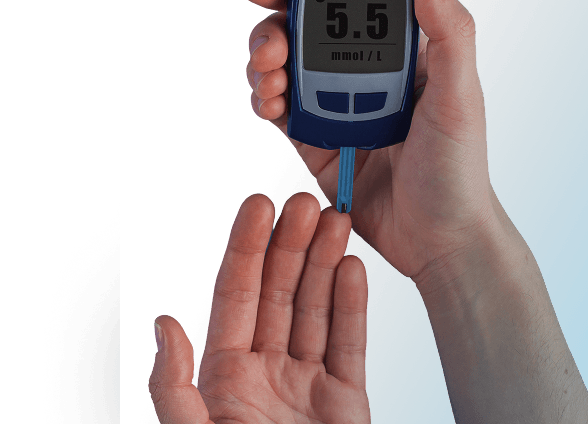
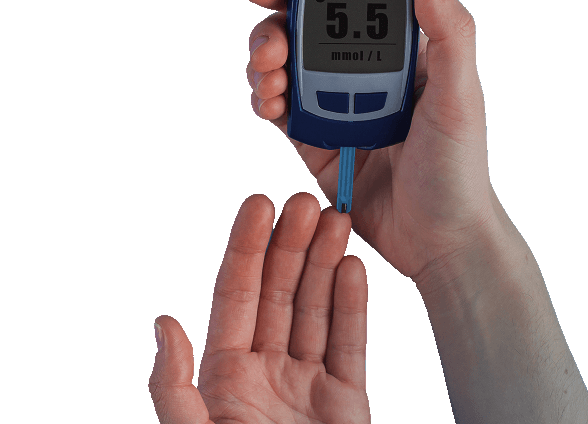
App download stacks, health packages images, title animation timing
- App download: valueUnit glass redesign, gradient border, storeBadgeStack layout, trust/store stack alignment around phone
- Health packages: package card background, diabetes/heart image asset fixes
- SplitText: slower title wipe/shimmer entrance animation
- FloatingQuickActions: fix dark/light detection gap between specialities and patient stories

Changed region(s): [[0.7959, 0.0, 1.0, 0.9198], [0.5816, 0.5519, 0.7959, 1.0]]

diff --git a/src/components/sections/app-download/AppDownloadBanner.tsx b/src/components/sections/app-download/AppDownloadBanner.tsx
@@ -7,6 +7,7 @@ import {
   useScroll,
   useTransform,
   useMotionValueEvent,
+  type Variants,
 } from "framer-motion";
 import Image from "next/image";
 import AppDownloadNeatBackground from "./AppDownloadNeatBackground";
@@ -444,21 +445,59 @@ export default function AppDownloadBanner() {
             <div className={`${styles.trustStackPosition} ${styles.desktopOnly}`} style={{ marginLeft: "100px" }}>
               <motion.div
                 className={styles.trustStack}
-                initial={{ opacity: 0, filter: "blur(4px)", y: 30 }}
-                animate={phase === "matured" ? { opacity: 1, filter: "blur(0px)", y: 0 } : { opacity: 0, filter: "blur(4px)", y: 30 }}
-                transition={{ duration: 0.6, delay: 0.1 }}
+                initial="hidden"
+                animate={phase === "matured" ? "visible" : "hidden"}
+                variants={{
+                  hidden: {},
+                  visible: { transition: { staggerChildren: 0.15, delayChildren: 0.1 } },
+                }}
               >
-                {TRUST_STACK.map(({ Icon, label, subtext }) => (
-                  <div key={label} className={styles.valueUnit}>
-                    <span className={styles.valueIconTile}>
-                      <Icon />
-                    </span>
-                    <span className={styles.valueText}>
-                      <span className={styles.valueLabel}>{label}</span>
-                      <span className={styles.valueSubtext}>{subtext}</span>
-                    </span>
-                  </div>
-                ))}
+                {(() => {
+                  const [primary, ...rest] = TRUST_STACK;
+                  const unitVariants: Variants = {
+                    hidden: { opacity: 0, filter: "blur(10px)", y: 24 },
+                    visible: {
+                      opacity: 1,
+                      filter: "blur(0px)",
+                      y: 0,
+                      transition: { duration: 0.7, ease: [0.16, 1, 0.3, 1] },
+                    },
+                  };
+                  return (
+                    <>
+                      <motion.div
+                        key={primary.label}
+                        className={`${styles.valueUnit} ${styles.valueUnitFull}`}
+                        variants={unitVariants}
+                      >
+                        <span className={styles.valueIconTile}>
+                          <primary.Icon />
+                        </span>
+                        <span className={styles.valueText}>
+                          <span className={styles.valueLabel}>{primary.label}</span>
+                          <span className={styles.valueSubtext}>{primary.subtext}</span>
+                        </span>
+                      </motion.div>
+                      <div className={styles.trustStackBottomRow}>
+                        {rest.map(({ Icon, label, subtext }) => (
+                          <motion.div
+                            key={label}
+                            className={`${styles.valueUnit} ${styles.valueUnitCompact}`}
+                            variants={unitVariants}
+                          >
+                            <span className={styles.valueIconTile}>
+                              <Icon />
+                            </span>
+                            <span className={styles.valueText}>
+                              <span className={styles.valueLabel}>{label}</span>
+                              <span className={styles.valueSubtext}>{subtext}</span>
+                            </span>
+                          </motion.div>
+                        ))}
+                      </div>
+                    </>
+                  );
+                })()}
               </motion.div>
             </div>
 
@@ -559,20 +598,68 @@ export default function AppDownloadBanner() {
               <motion.div 
                 className={styles.storesCol}
                 style={{ pointerEvents: "auto", zIndex: 30 }}
-                initial={{ opacity: 0, filter: "blur(4px)", y: 30 }}
-                animate={phase === "matured" ? { opacity: 1, filter: "blur(0px)", y: 0 } : { opacity: 0, filter: "blur(4px)", y: 30 }}
-                transition={{ duration: 0.6, delay: 0.1 }}
+                initial="hidden"
+                animate={phase === "matured" ? "visible" : "hidden"}
+                variants={{
+                  hidden: {},
+                  visible: { transition: { staggerChildren: 0.15, delayChildren: 0.1 } },
+                }}
               >
-                <div className={`${styles.qrStack} ${styles.desktopOnly} ${styles.popoverGlass}`}>
+                <motion.div
+                  className={`${styles.qrStack} ${styles.desktopOnly} ${styles.popoverGlass}`}
+                  variants={{
+                    hidden: { opacity: 0, filter: "blur(10px)", y: 24 },
+                    visible: {
+                      opacity: 1,
+                      filter: "blur(0px)",
+                      y: 0,
+                      transition: { duration: 0.7, ease: [0.16, 1, 0.3, 1] },
+                    },
+                  }}
+                >
                   <Image src="/app-download-QR.png" alt="QR code to download the NH Care app" width={140} height={140} className={styles.qrImg} />
                   <span className={styles.qrLabel}>Scan to install</span>
-                </div>
-                <a href="#" className={styles.storeBadge} tabIndex={0}>
-                  <Image width={140} height={46} alt="Download on the App Store" src="/App store.svg" />
-                </a>
-                <a href="#" className={styles.storeBadge} tabIndex={0}>
-                  <Image width={140} height={46} alt="Get it on Google Play" src="/Google play.svg" />
-                </a>
+                </motion.div>
+                <motion.div
+                  className={styles.storeBadgeStack}
+                  variants={{
+                    hidden: {},
+                    visible: { transition: { staggerChildren: 0.15 } },
+                  }}
+                >
+                  <motion.a
+                    href="#"
+                    className={styles.storeBadge}
+                    tabIndex={0}
+                    variants={{
+                      hidden: { opacity: 0, filter: "blur(10px)", y: 24 },
+                      visible: {
+                        opacity: 1,
+                        filter: "blur(0px)",
+                        y: 0,
+                        transition: { duration: 0.7, ease: [0.16, 1, 0.3, 1] },
+                      },
+                    }}
+                  >
+                    <Image width={140} height={46} alt="Download on the App Store" src="/App store.svg" />
+                  </motion.a>
+                  <motion.a
+                    href="#"
+                    className={styles.storeBadge}
+                    tabIndex={0}
+                    variants={{
+                      hidden: { opacity: 0, filter: "blur(10px)", y: 24 },
+                      visible: {
+                        opacity: 1,
+                        filter: "blur(0px)",
+                        y: 0,
+                        transition: { duration: 0.7, ease: [0.16, 1, 0.3, 1] },
+                      },
+                    }}
+                  >
+                    <Image width={140} height={46} alt="Get it on Google Play" src="/Google play.svg" />
+                  </motion.a>
+                </motion.div>
               </motion.div>
             </div>
           </div>

diff --git a/src/components/sections/app-download/AppDownloadBanner.module.css b/src/components/sections/app-download/AppDownloadBanner.module.css
@@ -248,12 +248,12 @@
 
 .trustStackPosition {
   left: 0;
-  margin-left: 160px;
+  margin-left: 90px;
 }
 
 .storesColPosition {
   right: 0;
-  margin-right: 120px;
+  margin-right: 90px;
 }
 
 /* Left-side trust stack: mirrors the store column's own entrance timing/
@@ -267,6 +267,17 @@
 .trustStack {
   display: flex;
   flex-direction: column;
+  align-items: stretch;
+  gap: 16px;
+}
+
+/* Bottom row: Downloads + Rating sit side by side, each hugging its own
+   content width rather than stretching to match the top unit's full
+   width — mirrors the Figma reference where the two are visibly
+   narrower than "India's Most Trusted" above them. */
+.trustStackBottomRow {
+  display: flex;
+  flex-direction: row;
   align-items: stretch;
   gap: 16px;
 }
@@ -374,19 +385,31 @@
      so the two sides read as one family — kept low enough that the card
      still reads as neutral glass at a glance. */
   background:
-    linear-gradient(180deg, rgb(233 42 45 / 0%) 0%, rgb(252 80 83 / 23%) 100%),
-    rgb(255 255 255 / 40%);
+    linear-gradient(180deg, rgb(255 241 241 / 22%) 0%, rgb(255 138 140 / 27%) 100%),
+    rgb(255 255 255 / 55%);
   backdrop-filter: blur(28px) saturate(1.6);
   -webkit-backdrop-filter: blur(28px) saturate(1.6);
   border-radius: 10px;
   padding: 16px;
-  border: 1px solid rgba(252, 80, 83, 0.12);
+  border: 1px solid rgb(255 224 225 / 76%);
+  box-shadow: 0 8px 24px rgba(233, 42, 45, 0.08);
 }
 
 .storesCol {
   display: flex;
-  flex-direction: column;
+  flex-direction: row;
+  align-items: stretch;
   gap: 16px;
+}
+
+/* App Store + Google Play badges stacked vertically beside the QR block,
+   rather than below the whole storesCol — reads as one compact unit next
+   to "Scan to install" instead of a tall single-file column. */
+.storeBadgeStack {
+  display: flex;
+  flex-direction: column;
+  justify-content: center;
+  gap: 12px;
 }
 
 /* Label above, image below, wrapped in .popoverGlass (same card treatment
@@ -416,7 +439,7 @@
   display: inline-flex;
   align-items: center;
   justify-content: center;
-  width: 140px;
+  width: 120px;
   opacity: 0.8;
   transition: transform 0.2s ease, opacity 0.2s ease;
   overflow: hidden;
@@ -649,11 +672,16 @@
   gap: 10px;
   border-radius: 40px;
   border: 1px solid rgba(255, 255, 255, 0.35);
-  /* No shadow at all now, so the blur is the only thing separating it from
-     the white behind — kept heavy for that reason. */
-  background: rgba(255, 255, 255, 0.14);
+  /* Neutral glass fill, with a faint grey wash pooling at the bottom edge
+     (rather than a flat tint) so the pill reads as lit from above, plus a
+     soft shadow to lift it off the backdrop now that it's no longer
+     leaning on the old blue tint for separation. */
+  background:
+    linear-gradient(180deg, rgba(0, 0, 0, 0) 0%, rgba(0, 0, 0, 0.06) 100%),
+    rgba(255, 255, 255, 0.14);
   backdrop-filter: blur(32px) saturate(1.9);
   -webkit-backdrop-filter: blur(32px) saturate(1.9);
+  box-shadow: 0 8px 20px rgba(0, 0, 0, 0.10);
   white-space: nowrap;
 }
 
@@ -668,10 +696,10 @@
 }
 
 /* ─── Left value stack ─── */
-/* Each value sits on its own card, in the same glass family as the QR card
-   opposite so the two columns read as a pair. The red is pulled back from
-   the QR card's: these are three stacked cards against that one, so the
-   same tint would compound down the column. */
+/* Glass-only surface — no color fill or stroke of its own (per the Figma
+   "Glass" effect reference: refraction/frost off a transparent base).
+   Legibility comes entirely from the backdrop-filter blur+saturate
+   lifting the text off whatever busy artwork sits behind it. */
 .valueUnit {
   display: flex;
   align-items: center;
@@ -679,12 +707,30 @@
   padding: 12px 16px;
   box-sizing: border-box;
   border-radius: 10px;
-  background:
-    linear-gradient(180deg, rgb(233 42 45 / 0%) 0%, rgb(252 80 83 / 10%) 100%),
-    rgb(255 255 255 / 55%);
   backdrop-filter: blur(36px) saturate(1.7);
   -webkit-backdrop-filter: blur(36px) saturate(1.7);
-  border: 1px solid rgba(252, 80, 83, 0.08);
+  box-shadow: 0 8px 24px rgba(0, 0, 0, 0.06);
+  /* Slight white gradient border via the two-layer background-clip trick
+     (a real border-image would square off the rounded corners) — the
+     padding-box layer stays fully transparent so the glass blur behind
+     is all that fills the card; only the border-box layer carries the
+     gradient, and only shows through the 1px border ring. */
+  border: 1px solid transparent;
+  background:
+    linear-gradient(rgba(0, 0, 0, 0), rgba(0, 0, 0, 0)) padding-box,
+    linear-gradient(180deg, rgba(255, 255, 255, 0.65) 0%, rgba(255, 255, 255, 0.12) 100%) border-box;
+}
+
+/* Top "India's Most Trusted" unit spans the full width of the stack (the
+   two units below it define that width by hugging their own content). */
+.valueUnitFull {
+  width: 100%;
+}
+
+/* Downloads / Rating units hug their content instead of stretching. */
+.valueUnitCompact {
+  width: auto;
+  flex: 0 0 auto;
 }
 
 .valueIconTile {
@@ -709,17 +755,17 @@
 .valueLabel {
   color: var(--darker-212121, #212121);
   font-family: Inter, var(--font-sans), sans-serif;
-  font-size: 16px;
+  font-size: 18px;
   font-style: normal;
   font-weight: 600;
   line-height: normal;
 }
 
 .valueSubtext {
-  color: var(--darker-717171, #717171);
+  color: #414141;
   font-family: Inter, var(--font-sans), sans-serif;
-  font-size: 16px;
+  font-size: 14px;
   font-style: normal;
-  font-weight: 500;
+  font-weight: 400;
   line-height: normal;
 }

diff --git a/src/components/layout/FloatingQuickActions.tsx b/src/components/layout/FloatingQuickActions.tsx
@@ -155,11 +155,16 @@ export default function FloatingQuickActions() {
 
       // Specialities: the grid section is dark from its first pixel, but
       // most of that is empty backdrop. The labels only need to go white
-      // once a speciality image is genuinely behind them.
+      // once a speciality image is genuinely behind them — or once the
+      // handoff strip at the bottom (CTA + the reversible plate fading to
+      // Patient Stories' solid backdrop) is behind them, since that empty
+      // gap turns solid dark well before Patient Stories itself arrives.
       const grid = document.querySelector('[class*="gridSection"]');
       const overGrid = Boolean(grid && overlapsBar(grid));
       const overGridImage =
         overGrid && Array.from(grid!.querySelectorAll("img")).some(overlapsBar);
+      const bottomStrip = document.querySelector('[class*="gridBottomStrip"]');
+      const overBottomStrip = Boolean(bottomStrip && overlapsBar(bottomStrip));
 
       // Packages: dark like every other section, so the labels are white
       // through it — until a card has grown far enough to sit under the
@@ -188,7 +193,7 @@ export default function FloatingQuickActions() {
         }
 
         let isDark = detectedTheme === "dark";
-        if (overGrid) isDark = overGridImage;
+        if (overGrid) isDark = overGridImage || overBottomStrip;
         if (overPackages) isDark = !packageCardAtBar;
         if (overHero) isDark = false;
         return isDark;

diff --git a/src/components/sections/health-packages/HealthPackages.module.css b/src/components/sections/health-packages/HealthPackages.module.css
@@ -252,7 +252,7 @@
   justify-content: center;
   align-items: center;
   flex-shrink: 0;
-  border-radius: 8px;
+  border-radius: 9.067px;
   background: linear-gradient(180deg, rgba(8, 109, 223, 0.60) 0%, rgba(4, 63, 133, 0.60) 100%);
   box-shadow: 0 1.133px 0 1.133px rgba(255, 255, 255, 0.22) inset;
   backdrop-filter: blur(6px);
@@ -344,7 +344,7 @@
      Without the backdrop-filter the video/frame behind is only dimmed by
      the background's own alpha, not actually blurred, so it reads through
      too crisply to feel like glass. */
-  background: rgba(255, 255, 255, 0.55);
+  background: rgb(255 250 244 / 78%);
   backdrop-filter: blur(24px) saturate(1.8);
 }
 
@@ -586,7 +586,7 @@
   align-items: center;
   justify-content: center;
   flex-shrink: 0;
-  border-radius: 8px;
+  border-radius: 9.067px;
   /* Deeper/more saturated than a light wash — against the white glass
      card a 0.20-alpha tint read as too pale to register as a chip. */
   background: linear-gradient(180deg, rgb(238 30 38 / 85%) 0%, rgb(168 9 9 / 76%) 100%);

diff --git a/src/components/ui/SplitText.tsx b/src/components/ui/SplitText.tsx
@@ -19,8 +19,8 @@ const wordVariants = {
     opacity: 1,
     filter: "blur(0px)",
     transition: {
-      delay: i * 0.18,
-      duration: 1.6,
+      delay: i * 0.32,
+      duration: 2.6,
       ease: [0.16, 1, 0.3, 1] as [number, number, number, number],
     },
   }),
